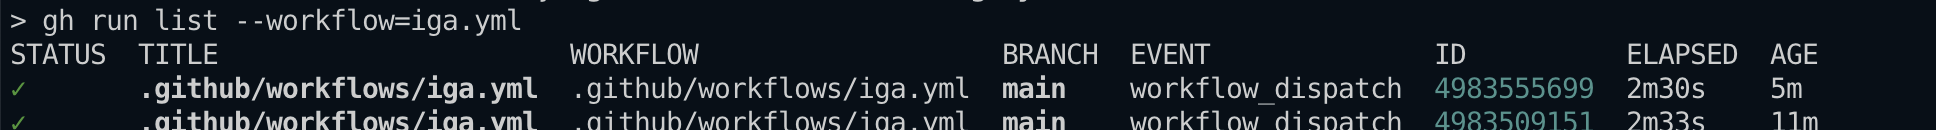
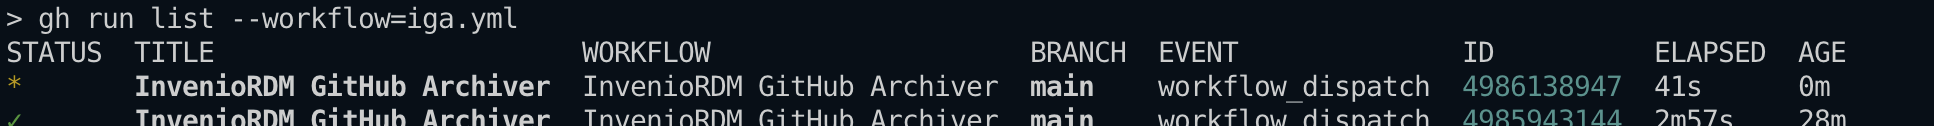
docs: various updates

diff --git a/docs/quick-start.md b/docs/quick-start.md
@@ -61,9 +61,9 @@ More options are described in the section on [detailed usage information](cli-us
 
 After doing the [GitHub Action installation](installation.md) steps and [obtaining an InvenioRDM token](#getting-an-inveniordm-token), one more step is needed: the token must be stored as a "secret" in your GitHub repository.
 
-1. Go to the _Settings_ page of your GitHub repository <figure><img src="https://github.com/caltechlibrary/iga/raw/main/docs/_static/media/github-tabs.png" width="70%"></figure>
-2. In the left-hand sidebar, find _Secrets and variables_ in the Security section, click on it to reveal _Actions_ underneath, then click on _Actions_<figure><img src="https://github.com/caltechlibrary/iga/raw/main/docs/_static/media/github-sidebar-secrets.png" width="30%"></figure>
-3. In the next page, click the green <kbd>New repository secret</kbd> button<figure><img src="https://github.com/caltechlibrary/iga/raw/main/docs/_static/media/github-secrets.png" width="60%"></figure>
+1. Go to the _Settings_ page of your GitHub repository <figure><img src="_static/media/github-tabs.png" width="70%"></figure>
+2. In the left-hand sidebar, find _Secrets and variables_ in the Security section, click on it to reveal _Actions_ underneath, then click on _Actions_<figure><img src="_static/media/github-sidebar-secrets.png" width="30%"></figure>
+3. In the next page, click the green <kbd>New repository secret</kbd> button<figure><img src="_static/media/github-secrets.png" width="60%"></figure>
 4. Name the variable `INVENIO_TOKEN` and paste in your InvenioRDM token
 5. Finish by clicking the green <kbd>Add secret</kbd> button
 
@@ -71,11 +71,11 @@ After doing the [GitHub Action installation](installation.md) steps and [obtaini
 
 After setting up the workflow and storing the InvenioRDM token in your repository on GitHub, it's a good idea to run the workflow manually to test that it works as expected.
 
-1. Go to the _Actions_ tab in your repository and click on the name of the workflow in the sidebar on the left<figure><img src="https://github.com/caltechlibrary/iga/raw/main/docs/_static/media/github-run-workflow.png" width="70%"></figure>
+1. Go to the _Actions_ tab in your repository and click on the name of the workflow in the sidebar on the left<figure><img src="_static/media/github-run-workflow.png" width="70%"></figure>
 2. Click the <kbd>Run workflow</kbd> button in the right-hand side of the blue strip
-3. In the pull-down, change the value of "Mark the record as a draft" to `true`<figure><img src="https://github.com/caltechlibrary/iga/raw/main/docs/_static/media/github-workflow-options-circled.png" width="30%"></figure>
+3. In the pull-down, change the value of "Mark the record as a draft" to `true`<figure><img src="_static/media/github-workflow-options-circled.png" width="30%"></figure>
 4. Click the green <kbd>Run workflow</kbd> button near the bottom
-5. Refresh the web page and a new line will be shown named after your workflow file<figure><img src="https://github.com/caltechlibrary/iga/raw/main/docs/_static/media/github-running-workflow.png" width="90%"></figure>
+5. Refresh the web page and a new line will be shown named after your workflow file<figure><img src="_static/media/github-running-workflow.png" width="90%"></figure>
 6. Click that line to see the IGA workflow progress and results
 
 

diff --git a/docs/installation.md b/docs/installation.md
@@ -52,6 +52,7 @@ A [GitHub Action](https://docs.github.com/en/actions) is a workflow that runs on
 1. In the main branch of your GitHub repository, create a `.github/workflows` directory
 2. In the `.github/workflows` directory, create a file named (e.g.) `iga.yml` and copy the following contents into it:
     ```yaml
+    name: InvenioRDM GitHub Archiver
     env:
       # 👋🏻 Set the next variable to your InvenioRDM server address 👋🏻
       INVENIO_SERVER: https://your-invenio-server.org
@@ -101,7 +102,7 @@ A [GitHub Action](https://docs.github.com/en/actions) is a workflow that runs on
               parent_record:  ${{github.event.inputs.parent_record || env.parent_record}}
               release_tag:    ${{github.event.inputs.release_tag || 'latest'}}
     ```
-3. **Edit the value of the `INVENIO_SERVER` variable (line 3 above)** ↑
+3. **Edit the value of the `INVENIO_SERVER` variable (line 4 above)** ↑
 4. Optionally, change the values of other options (`all_assets`, `community`, etc.)
 5. Save the file, commit the changes to git, and push your changes to GitHub
 

diff --git a/docs/index.md b/docs/index.md
@@ -5,9 +5,9 @@
 IGA creates metadata records and sends releases from GitHub to an InvenioRDM-based repository server. IGA can be invoked from the command line; it also can be set up as a [GitHub Action](https://docs.github.com/en/actions) to archive GitHub releases automatically for a repository each time they are made.
 
 <figure>
-<img align="middle" src="https://github.com/caltechlibrary/iga/raw/main/docs/_static/media/example-github-release.jpg" width="40%">
+<img align="middle" src="_static/media/example-github-release.jpg" width="40%">
 <span style="font-size: 150%">➜</span>
-<img align="middle" src="https://github.com/caltechlibrary/iga/raw/main/docs/_static/media/example-record-landing-page.jpg" width="40%">
+<img align="middle" src="_static/media/example-record-landing-page.jpg" width="40%">
     <figcaption>IGA sends metadata and assets from GitHub to an InvenioRDM server..</figcaption>
 </figure>
 
